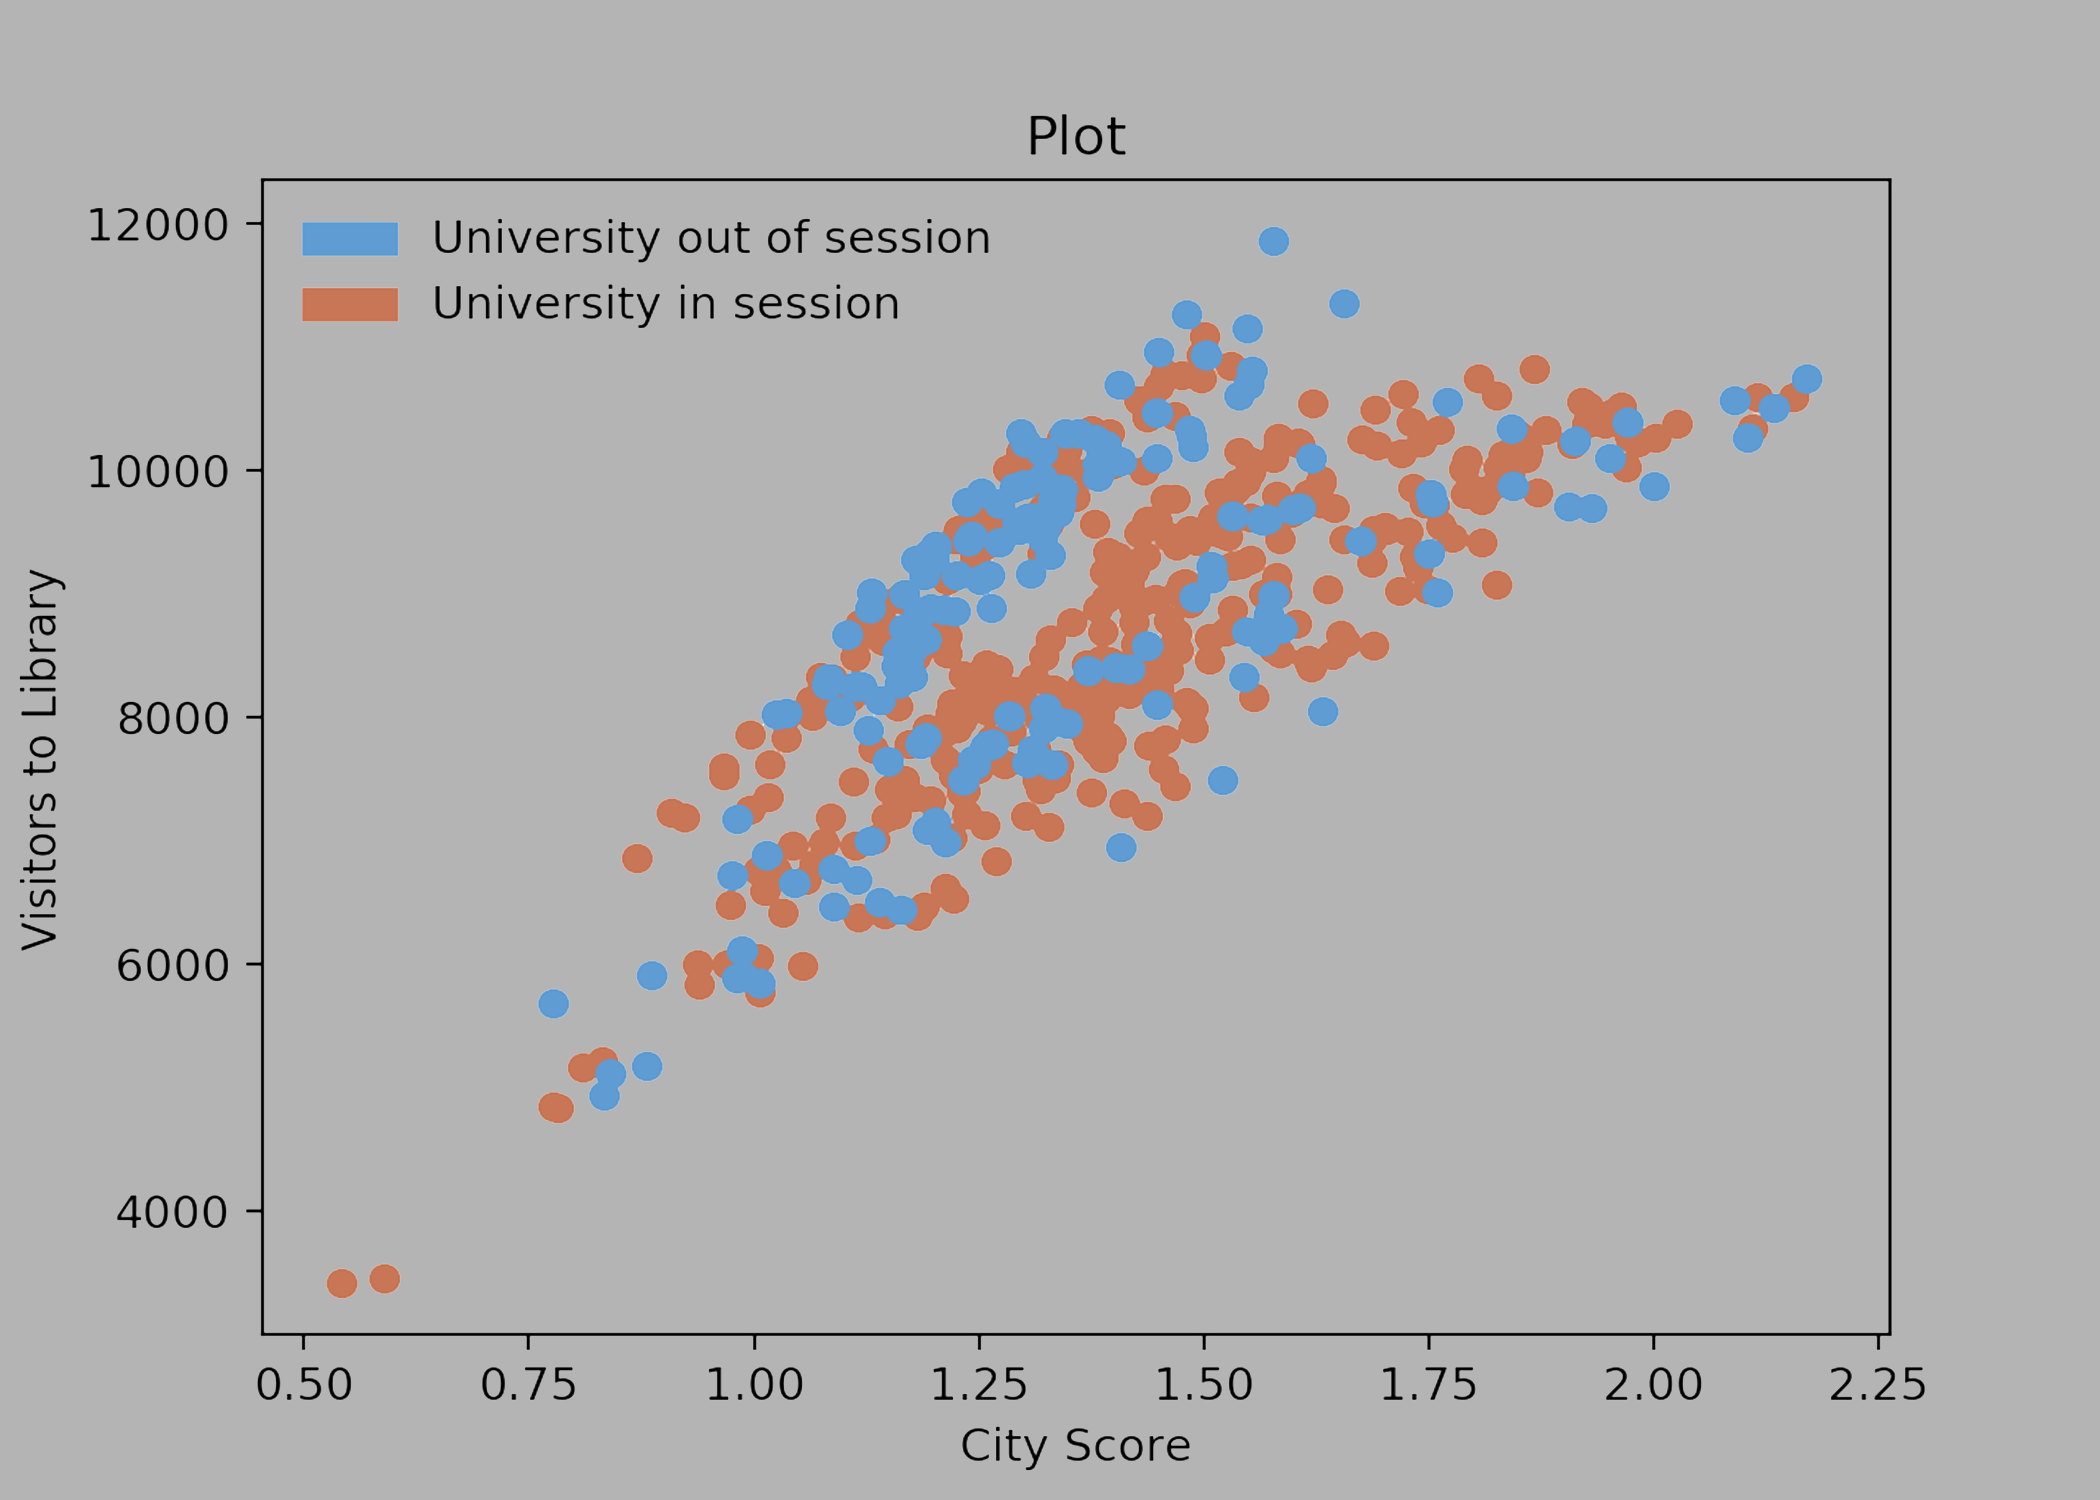
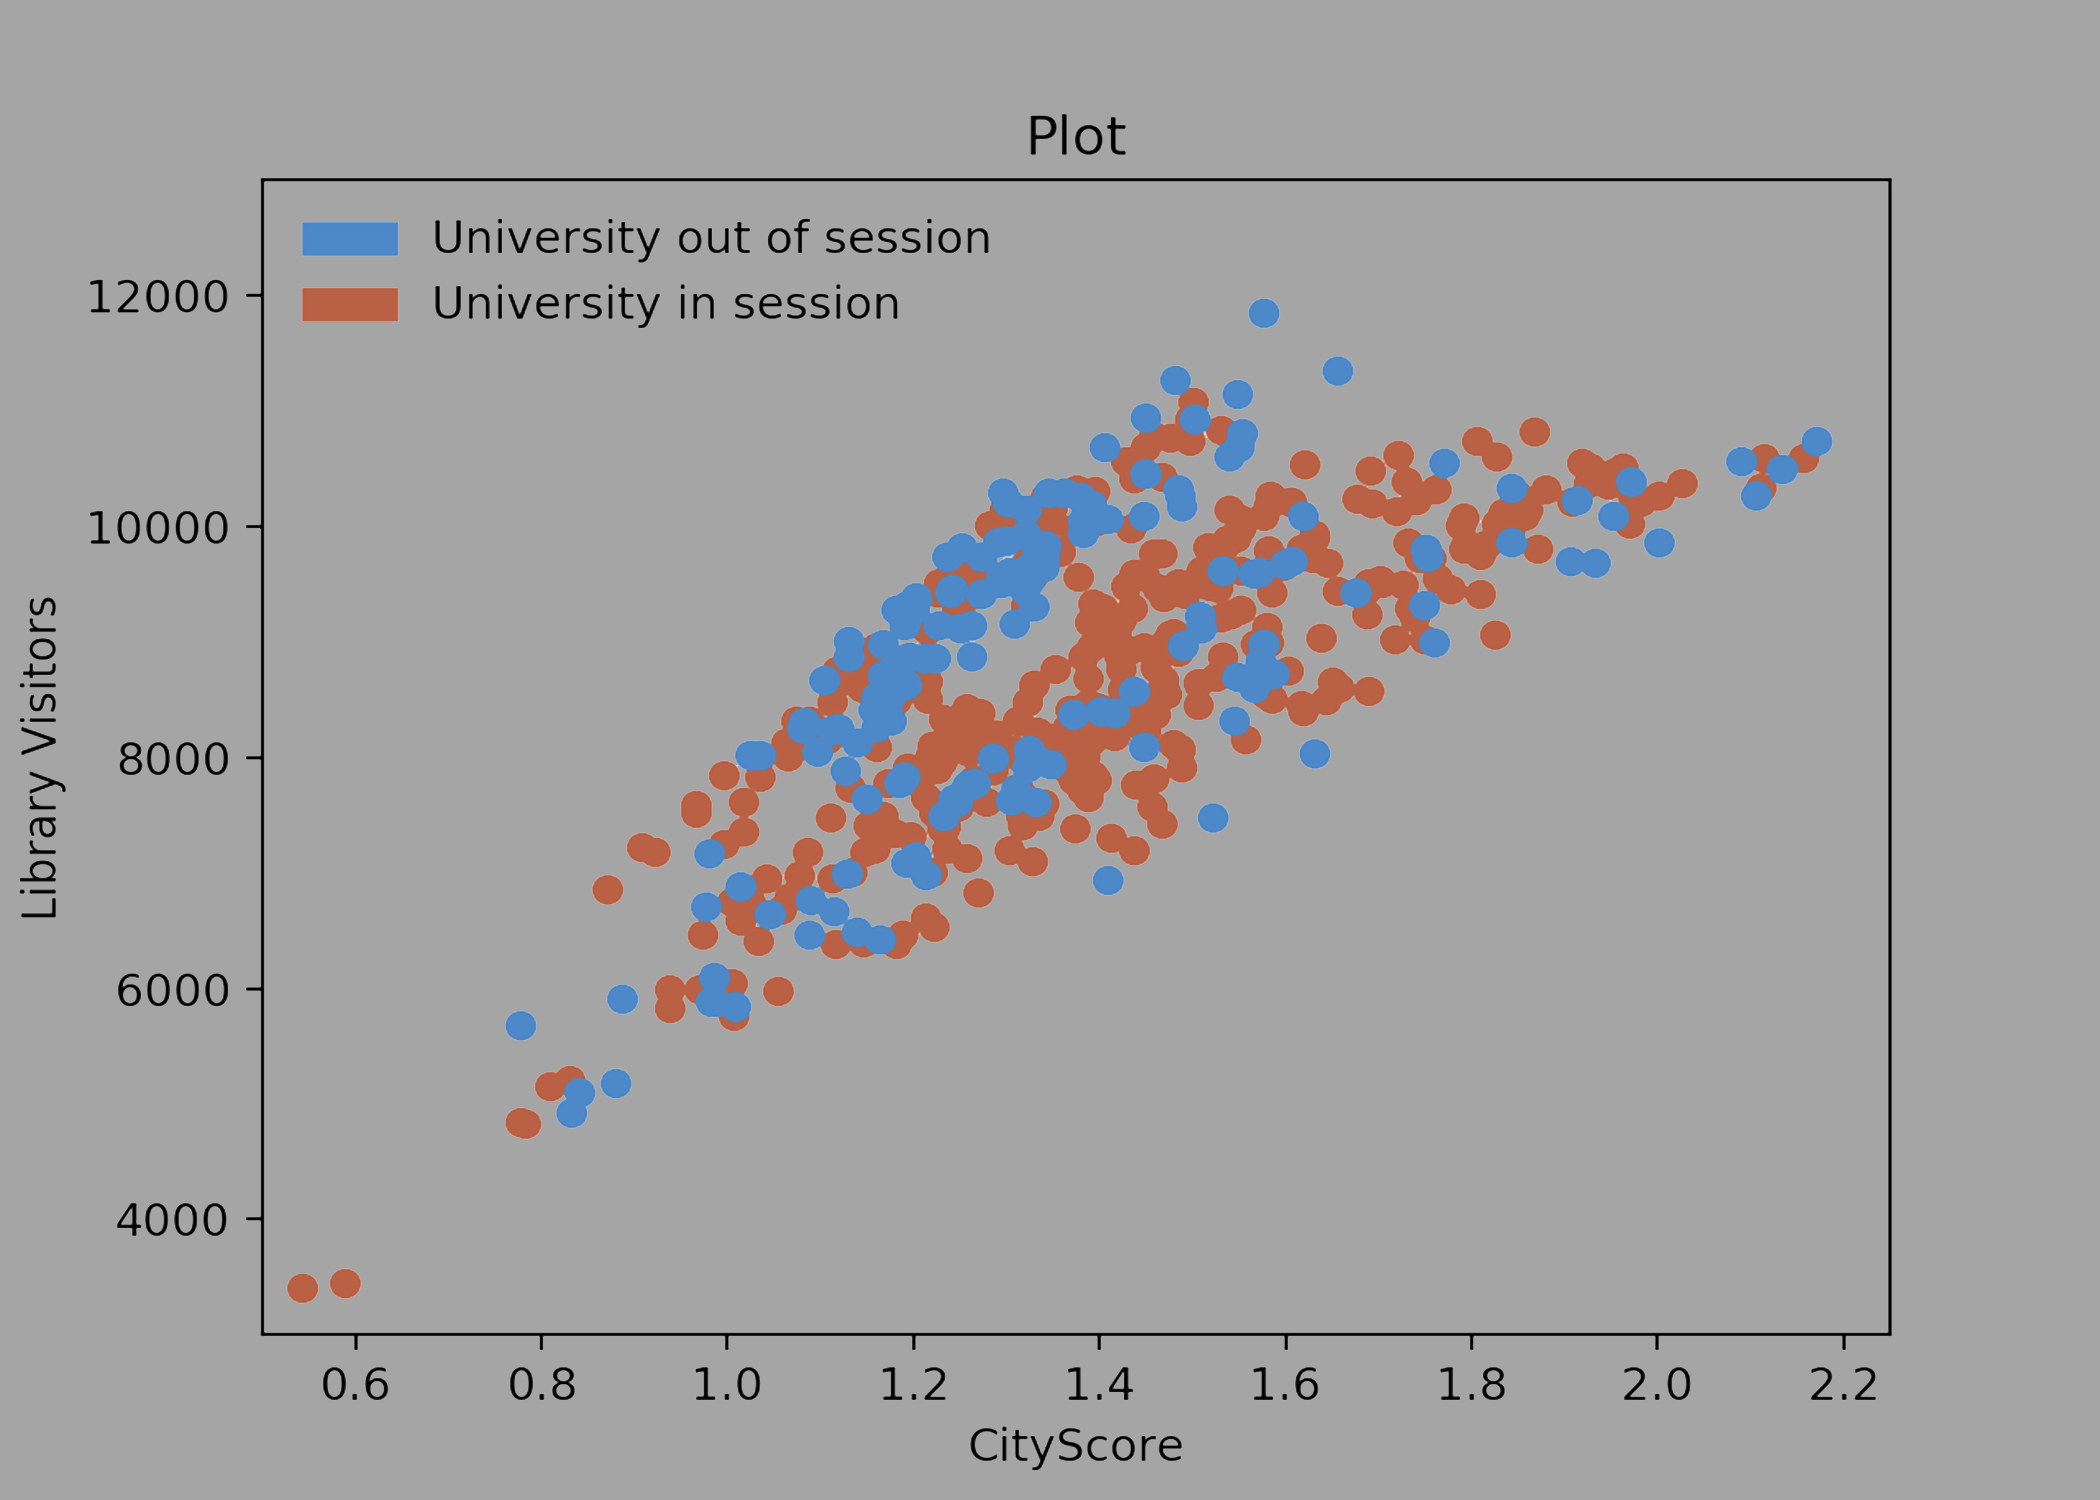
changed pictures on library attendance

diff --git a/public/index.html b/public/index.html
@@ -21,7 +21,7 @@
 			<section id="header">
 				<div class="inner">
 					<h1><strong>College Move-In Week </strong><a href="http://html5up.net"></a></h1>
-					<p>HOW DOES MOVING WEEK IMPACT THE QUALITY OF LIFE IN BOSTON?</p>
+					<p>HOW DOES MOVE-IN WEEK IMPACT THE QUALITY OF LIFE IN BOSTON?</p>
 					<br><b><br><br><br><br><br>
 					<ul class="actions">
 						<li><a href="#one" class="button scrolly">Discover</a></li>
@@ -116,9 +116,9 @@
 								<h2>Fire Incidents<br /></h2>
 							</header>
 							<p>Reported fire incidents includes everything from a smoke detector activation to an electrical fire to a cooking fire. The Boston City Score includes Boston Fire Department (BFD) incidents so we thought they would be a good indicator of the city’s performance. Our initial suspicion was that during move-in week and the time that colleges are in session the fire department would be called more frequently and the incident numbers would be higher.</p>
-                            <p>This chart depicts the number of fire incidents for the first two weeks of each month. As you can see, the number of incidents is relatively consistent with August, March, and September reporting the highest numbers.</p>
-                            <p>We must account for the fact that move-in means the general population of Boston increases and thus the amount of incidents is likely to increase. That said, during other months such as October and November when students are present there are not as many incidents as there are in August and September around the time of move-in period.</p>
-                            <p>The average number of fire incidents, for the first two weeks, for all the months is 1830.3 incidents. For the months of August and September the average is 2018 fire incidents for the first two weeks. This shows an increase of approximately 10% in fire incidents for the move-in months. The standard deviation between the months is 139.36 incidents. Assuming number of incidents is normally distributed, the probability of 2018, or more, incidents is 9%</p>
+                            <p>This chart depicts the number of fire incidents for the first two weeks of each month. As you can see, the number of incidents is relatively consistent, with August, March, and September reporting the highest numbers.</p>
+                            <p>We must account for the fact that move-in means the population of Boston increases, and thus the amount of incidents is likely to increase. That said, during other months with colleges in session, such as October and November, there are not as many incidents as in August and September.</p>
+                            <p>The average number of fire incidents for all the months is 3947.25 incidents. For the months of August and September the average is 4351.5 fire incidents. This shows an increase of approximately 10% for the move-in months. The standard deviation between the months is approximately 325.44 incidents. Assuming number of incidents is normally distributed and the number of incidents is independent of the month, the probability of 4,351.5 or more incidents in one month, is 11%.</p>
                         </div>
 					</div>
 				</div>
@@ -131,7 +131,9 @@
 							<header class="major">
 								<h2>Library Attendance<br /></h2>
 							</header>
-							<p>description of Library Attendance</p>
+							<p>Boston uses the CityScore initiative to measure the overall health of the city each day. The initiative aggregates various city metrics, both negative and additive, into a singular score. One of these metrics is public library users. The initiative’s goal is for this metric to increase, concluding with a higher score. To contest the notion that students decrease the quality of life in Boston, we examined how student library users impact the score in a positive way.</p>
+                            <p>Due to the student population in Boston, we hypothesized that the score would increase during the academic year. We divided our data based on the average academic calendar dates of Boston University, Northeastern University, Suffolk University, and the University of Massachusetts Boston. Because the academic calendar covers most of the year, we sought out whether a student population affected the CityScore. Our method was analyzing the correlation between library attendance and city score during both the school session and not.</p>
+                            <p>The trend of the scatter plot for each dataset showed a similar shape, so we calculated a correlation coefficient to examine the true correlation. During the time that students are not in session, the correlation coefficient is .36, while during session it is .75. The result is that there is a stronger correlation between library users and CityScore during the academic year. In order for the city to achieve a higher score, the city should look at promoting student library attendance.</p>
 						</div>
 						<div class="6u$ 12u$(medium)">
 							<ul class="major-icons">
